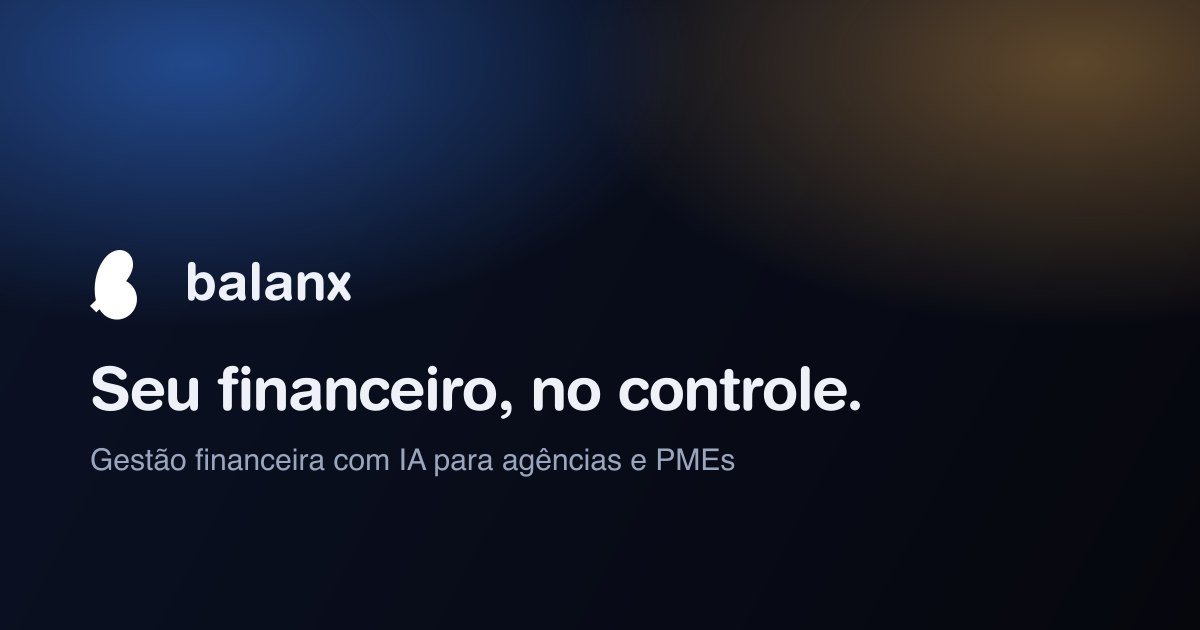
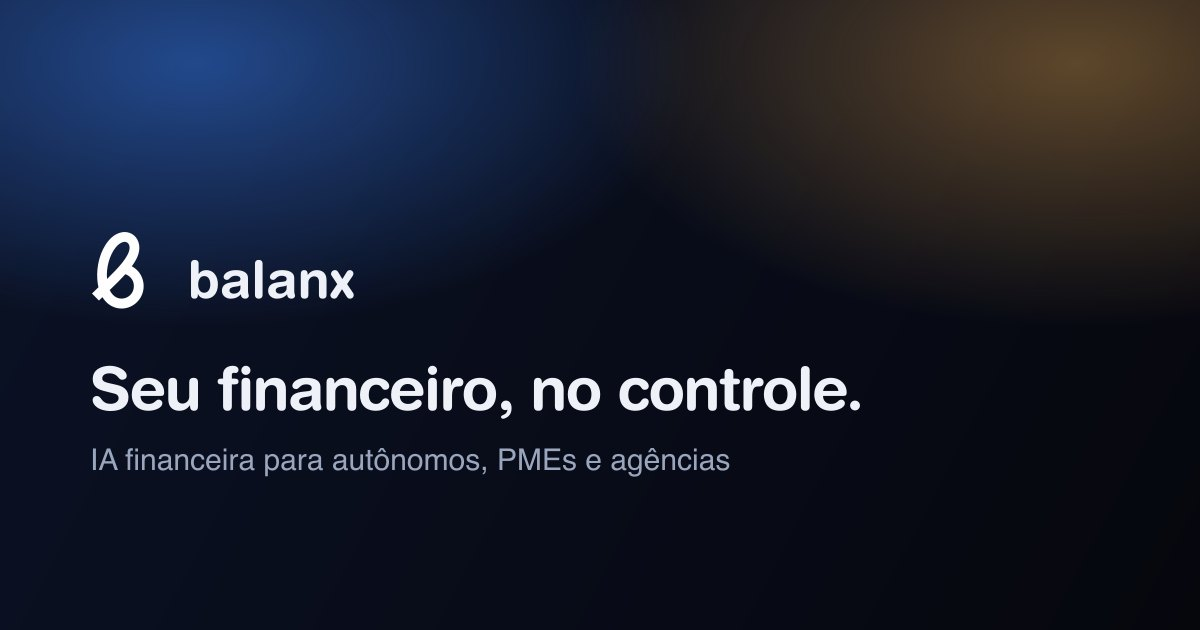
LP: (1) OG image com o 'b' correto (path completo + evenodd); (2) toggle de planos centralizado (remove hack left:50%); (3) balao da IARA de pre-venda — widget flutuante (texto + audio/Whisper) + edge function publica iara-lp (conhecimento do produto, gpt-4o-mini, rate-limit por IP + tabela lp_chat_

Changed region(s): [[0.0617, 0.6937, 0.6167, 0.754], [0.1542, 0.4222, 0.3083, 0.4825], [0.0617, 0.3619, 0.1233, 0.5127]]

diff --git a/supabase/functions/iara-lp/index.ts b/supabase/functions/iara-lp/index.ts
@@ -1,0 +1,104 @@
+import { serve } from "https://deno.land/std@0.168.0/http/server.ts";
+import { createClient } from "https://esm.sh/@supabase/supabase-js@2";
+
+// IARA da Landing Page (pré-venda, PÚBLICA — sem login). Responde dúvidas sobre
+// o BALANX com base no conhecimento do produto. Aceita texto e áudio (Whisper).
+// Rate-limit por IP pra conter abuso (endpoint público -> custo de IA).
+
+const corsHeaders = {
+  "Access-Control-Allow-Origin": "*",
+  "Access-Control-Allow-Headers": "authorization, x-client-info, apikey, content-type",
+};
+
+const LIMITE_DIA_IP = Number(Deno.env.get("IARA_LP_LIMITE_IP") || "40");
+
+const SYSTEM = `Você é a IARA, a assistente virtual do site do BALANX. Atende quem está conhecendo o produto (pré-venda), em português do Brasil, de forma curta, simpática e útil.
+
+SOBRE O BALANX:
+- Gestão financeira com IA para autônomos, PMEs e agências — feito para quem vive de projetos e mensalidades.
+- Recursos: fluxo de caixa e previsão; contratos e recebíveis recorrentes (MRR); cartões e faturas (compras parceladas caem na fatura certa pelo dia de fechamento); calendário com previsão de caixa por semana; lançar por voz; importar extratos por IA; relatórios, metas e categorias.
+- IARA (dentro do app): lê seus números reais e responde qualquer período em português ("o que tenho a pagar essa semana?", "quanto posso retirar de lucro?"). É conservadora e NÃO recomenda investimento de risco.
+- Preços: 14 dias grátis, sem precisar de cartão. Plano único: R$ 29,90/mês, ou no anual 12× de R$ 19,90 (economia de ~33%). Pagamento por Pix, boleto ou cartão. Cancele quando quiser.
+- Começar: criar conta em app.balanx.com.br/criar-conta. Roda no navegador (celular e computador) e pode ser adicionado à tela inicial. Cada conta enxerga só os próprios dados.
+
+REGRAS:
+- Responda SÓ sobre o BALANX. Se perguntarem algo fora disso, redirecione com gentileza.
+- NÃO invente recursos, preços ou números. Se não souber, sugira criar a conta (14 dias grátis) ou falar com o suporte.
+- Seja concisa (2 a 5 frases). Quando fizer sentido, convide a pessoa a começar o teste grátis.
+- Nunca peça senha, cartão ou dados sensíveis.`;
+
+serve(async (req) => {
+  if (req.method === "OPTIONS") return new Response(null, { headers: corsHeaders });
+
+  try {
+    const apiKey = Deno.env.get("OPENAI_API_KEY") || Deno.env.get("IARA_API_KEY");
+    if (!apiKey) {
+      return new Response(JSON.stringify({ error: "IA não configurada." }), { status: 500, headers: { ...corsHeaders, "Content-Type": "application/json" } });
+    }
+    const model = Deno.env.get("IARA_MODEL") || "gpt-4o-mini";
+    const openaiBase = "https://api.openai.com/v1";
+
+    // ---- Rate-limit por IP (best-effort, falha aberta) ----
+    const ip = (req.headers.get("x-forwarded-for") || "").split(",")[0].trim() || "desconhecido";
+    try {
+      const admin = createClient(Deno.env.get("SUPABASE_URL")!, Deno.env.get("SUPABASE_SERVICE_ROLE_KEY")!);
+      const hoje = new Date().toISOString().split("T")[0];
+      const { data: row } = await admin.from("lp_chat_uso").select("qtd").eq("ip", ip).eq("dia", hoje).maybeSingle();
+      const qtd = (row?.qtd ?? 0) + 1;
+      if (qtd > LIMITE_DIA_IP) {
+        return new Response(JSON.stringify({ error: "Muitas mensagens por hoje. Crie sua conta grátis em app.balanx.com.br para conversar com a IARA de verdade 🙂" }), { status: 429, headers: { ...corsHeaders, "Content-Type": "application/json" } });
+      }
+      await admin.from("lp_chat_uso").upsert({ ip, dia: hoje, qtd }, { onConflict: "ip,dia" });
+    } catch (_e) { /* fail open */ }
+
+    // ---- Entrada: JSON (texto) ou multipart (áudio) ----
+    let messages: { role: string; content: string }[] = [];
+    let transcript: string | null = null;
+    const ct = req.headers.get("content-type") || "";
+
+    if (ct.includes("multipart/form-data")) {
+      const form = await req.formData();
+      const raw = form.get("messages");
+      if (typeof raw === "string" && raw) { try { messages = JSON.parse(raw); } catch { /* ignore */ } }
+      const file = form.get("file");
+      if (file instanceof File) {
+        const oa = new FormData();
+        oa.append("file", file, file.name || "audio.webm");
+        oa.append("model", Deno.env.get("TRANSCRIBE_MODEL") || "whisper-1");
+        oa.append("language", "pt");
+        const tr = await fetch(`${openaiBase}/audio/transcriptions`, { method: "POST", headers: { Authorization: `Bearer ${apiKey}` }, body: oa });
+        if (tr.ok) { transcript = ((await tr.json()).text || "").trim(); }
+        if (transcript) messages.push({ role: "user", content: transcript });
+      }
+    } else {
+      const body = await req.json().catch(() => ({}));
+      messages = Array.isArray(body.messages) ? body.messages : [];
+    }
+
+    // Só as últimas 8 mensagens (contém custo/contexto) e cada uma limitada.
+    const clean = messages
+      .filter((m) => (m.role === "user" || m.role === "assistant") && typeof m.content === "string")
+      .slice(-8)
+      .map((m) => ({ role: m.role, content: String(m.content).slice(0, 1000) }));
+    if (!clean.length) {
+      return new Response(JSON.stringify({ error: "Envie uma mensagem." }), { status: 400, headers: { ...corsHeaders, "Content-Type": "application/json" } });
+    }
+
+    const resp = await fetch(`${openaiBase}/chat/completions`, {
+      method: "POST",
+      headers: { Authorization: `Bearer ${apiKey}`, "Content-Type": "application/json" },
+      body: JSON.stringify({ model, temperature: 0.4, max_tokens: 450, messages: [{ role: "system", content: SYSTEM }, ...clean] }),
+    });
+    if (!resp.ok) {
+      const t = await resp.text();
+      console.error("iara-lp AI error", resp.status, t);
+      return new Response(JSON.stringify({ error: "Não consegui responder agora. Tente de novo." }), { status: 500, headers: { ...corsHeaders, "Content-Type": "application/json" } });
+    }
+    const data = await resp.json();
+    const reply = (data.choices?.[0]?.message?.content || "").trim() || "Desculpe, não entendi. Pode reformular?";
+    return new Response(JSON.stringify({ reply, transcript }), { headers: { ...corsHeaders, "Content-Type": "application/json" } });
+  } catch (e) {
+    console.error("iara-lp error", e);
+    return new Response(JSON.stringify({ error: e instanceof Error ? e.message : "Erro" }), { status: 500, headers: { ...corsHeaders, "Content-Type": "application/json" } });
+  }
+});

diff --git a/landing/styles.css b/landing/styles.css
@@ -176,8 +176,8 @@ p{margin:0}
 .showcase__overlay p{color:var(--muted);max-width:26em;margin:14px 0 22px}
 
 /* ---------- PREÇOS ---------- */
-.toggle{display:inline-flex;gap:4px;padding:4px;border-radius:14px;background:var(--surface);
-  border:1px solid var(--border);margin:0 auto 26px;position:relative;left:50%;transform:translateX(-50%)}
+.toggle{display:flex;width:fit-content;gap:4px;padding:4px;border-radius:14px;background:var(--surface);
+  border:1px solid var(--border);margin:0 auto 26px}
 .toggle__opt{display:inline-flex;align-items:center;gap:7px;height:38px;padding:0 18px;border:0;border-radius:11px;
   background:transparent;color:var(--muted);font-weight:600;font-size:14px;cursor:pointer;transition:.2s}
 .toggle__opt.is-active{background:linear-gradient(180deg,#4c8dff,#2563eb);color:#fff}
@@ -249,3 +249,55 @@ p{margin:0}
   .footer{flex-direction:column;align-items:flex-start;gap:14px}
   .footer__legal{margin-left:0}
 }
+
+/* ===================== IARA — chat de pré-venda ===================== */
+.iara-fab{position:fixed;right:20px;bottom:20px;z-index:80;width:58px;height:58px;border:0;cursor:pointer;
+  border-radius:50%;display:grid;place-items:center;color:#fff;
+  background:linear-gradient(160deg,#4c8dff,#2563eb);
+  box-shadow:0 12px 30px -8px rgba(37,99,235,.7),inset 0 1px 0 rgba(255,255,255,.25);
+  transition:transform .18s ease}
+.iara-fab:hover{transform:scale(1.06)}
+.iara-fab:active{transform:scale(.95)}
+.iara-fab svg{width:26px;height:26px}
+.iara-fab__close{display:none}
+.iara-fab.open .iara-fab__spark{display:none}
+.iara-fab.open .iara-fab__close{display:block}
+
+.iara-panel{position:fixed;right:20px;bottom:88px;z-index:80;width:min(380px,calc(100vw - 32px));
+  height:min(560px,calc(100dvh - 120px));display:flex;flex-direction:column;overflow:hidden;
+  border-radius:22px;border:1px solid var(--border);background:rgba(12,16,28,.86);
+  backdrop-filter:blur(24px) saturate(1.4);
+  box-shadow:0 30px 70px -24px rgba(0,0,0,.85),inset 0 1px 0 rgba(255,255,255,.08);
+  transform-origin:bottom right;animation:iaraIn .22s cubic-bezier(.2,.8,.2,1)}
+@keyframes iaraIn{from{opacity:0;transform:translateY(12px) scale(.97)}to{opacity:1;transform:none}}
+.iara-panel__head{display:flex;align-items:center;gap:11px;padding:14px 14px;border-bottom:1px solid var(--border)}
+.iara-panel__ava{flex:none;width:34px;height:34px;border-radius:10px;display:grid;place-items:center;color:#fff;
+  background:linear-gradient(150deg,#4c8dff,#2563eb)}
+.iara-panel__ava svg{width:18px;height:18px}
+.iara-panel__id{flex:1;min-width:0}
+.iara-panel__name{font-size:14.5px;font-weight:700}
+.iara-panel__status{font-size:11px;color:var(--pos)}
+.iara-panel__x{flex:none;width:30px;height:30px;border:0;background:transparent;color:var(--muted);cursor:pointer;border-radius:8px}
+.iara-panel__x svg{width:18px;height:18px}
+.iara-panel__x:hover{background:rgba(255,255,255,.06);color:var(--fg)}
+.iara-panel__msgs{flex:1;overflow-y:auto;padding:16px 14px;display:flex;flex-direction:column;gap:10px}
+.iara-msg{max-width:86%;padding:10px 13px;font-size:13.5px;line-height:1.5;border-radius:15px;white-space:pre-wrap;word-wrap:break-word}
+.iara-msg--user{align-self:flex-end;background:linear-gradient(180deg,#4c8dff,#2563eb);color:#fff;border-radius:15px 15px 5px 15px}
+.iara-msg--bot{align-self:flex-start;background:rgba(255,255,255,.06);border:1px solid var(--border);border-radius:15px 15px 15px 5px}
+.iara-msg--typing{color:var(--muted);font-style:italic}
+.iara-panel__composer{display:flex;align-items:center;gap:8px;padding:10px 12px;border-top:1px solid var(--border)}
+.iara-panel__composer input{flex:1;min-width:0;height:40px;border-radius:12px;border:1px solid var(--border);
+  background:rgba(255,255,255,.05);color:var(--fg);padding:0 12px;font-size:14px;outline:none;font-family:inherit}
+.iara-panel__composer input:focus{border-color:rgba(76,141,255,.5)}
+.iara-mic,.iara-sendbtn{flex:none;width:40px;height:40px;border-radius:12px;border:1px solid var(--border);
+  background:rgba(255,255,255,.05);color:var(--muted);cursor:pointer;display:grid;place-items:center;transition:.15s}
+.iara-mic svg,.iara-sendbtn svg{width:18px;height:18px}
+.iara-mic:hover,.iara-sendbtn:hover{color:var(--fg);border-color:rgba(255,255,255,.24)}
+.iara-mic.rec{background:hsl(4 70% 42% / .18);border-color:var(--neg);color:var(--neg);animation:iaraPulse 1s infinite}
+@keyframes iaraPulse{50%{opacity:.5}}
+.iara-sendbtn{background:linear-gradient(180deg,#4c8dff,#2563eb);color:#fff;border-color:transparent}
+@media (max-width:680px){
+  .iara-panel{right:10px;left:10px;width:auto;bottom:82px;height:min(70dvh,540px)}
+  .iara-fab{right:14px;bottom:14px}
+}
+@media (prefers-reduced-motion:reduce){ .iara-panel{animation:none} .iara-mic.rec{animation:none} }

diff --git a/landing/main.js b/landing/main.js
@@ -85,3 +85,110 @@
   };
   opts.forEach((o) => o.addEventListener('click', () => setCycle(o.dataset.cycle)));
 })();
+
+/* ===================== IARA — chat de pré-venda ===================== */
+(() => {
+  'use strict';
+  const SB = 'https://hvwuuxvsoyovkvedifco.supabase.co';
+  const KEY = 'sb_publishable_UiXet8EwrEK9ZdSOExLncw_8GUgON7-';
+  const FN = `${SB}/functions/v1/iara-lp`;
+  const AUTH = { apikey: KEY, Authorization: `Bearer ${KEY}` };
+
+  const fab = document.getElementById('iaraFab');
+  const panel = document.getElementById('iaraPanel');
+  const closeBtn = document.getElementById('iaraClose');
+  const msgsEl = document.getElementById('iaraMsgs');
+  const form = document.getElementById('iaraForm');
+  const input = document.getElementById('iaraInput');
+  const mic = document.getElementById('iaraMic');
+  if (!fab || !panel) return;
+
+  const history = [];
+  let opened = false;
+  let busy = false;
+
+  const scroll = () => { msgsEl.scrollTop = msgsEl.scrollHeight; };
+  const addMsg = (role, text) => {
+    const el = document.createElement('div');
+    el.className = `iara-msg iara-msg--${role === 'user' ? 'user' : 'bot'}`;
+    el.textContent = text;
+    msgsEl.appendChild(el);
+    scroll();
+    return el;
+  };
+
+  const openPanel = () => {
+    panel.hidden = false;
+    fab.classList.add('open');
+    opened = true;
+    if (!msgsEl.childElementCount) {
+      addMsg('bot', 'Oi! Sou a IARA 👋 Posso te explicar o que o BALANX faz, preços, como começar… Pergunte por texto ou toque no microfone.');
+    }
+    setTimeout(() => input.focus(), 100);
+  };
+  const closePanel = () => { panel.hidden = true; fab.classList.remove('open'); opened = false; };
+  fab.addEventListener('click', () => (opened ? closePanel() : openPanel()));
+  closeBtn.addEventListener('click', closePanel);
+
+  const ask = async ({ text, blob }) => {
+    if (busy) return;
+    busy = true;
+    if (text) { addMsg('user', text); history.push({ role: 'user', content: text }); }
+    const typing = addMsg('bot', 'digitando…');
+    typing.classList.add('iara-msg--typing');
+    try {
+      let resp;
+      if (blob) {
+        const fd = new FormData();
+        fd.append('file', blob, 'audio.webm');
+        fd.append('messages', JSON.stringify(history));
+        resp = await fetch(FN, { method: 'POST', headers: AUTH, body: fd });
+      } else {
+        resp = await fetch(FN, { method: 'POST', headers: { ...AUTH, 'Content-Type': 'application/json' }, body: JSON.stringify({ messages: history }) });
+      }
+      const data = await resp.json();
+      if (blob && data.transcript) { typing.remove(); addMsg('user', data.transcript); history.push({ role: 'user', content: data.transcript }); }
+      if (!resp.ok) throw new Error(data.error || 'Erro');
+      typing.remove();
+      addMsg('bot', data.reply);
+      history.push({ role: 'assistant', content: data.reply });
+    } catch (e) {
+      typing.remove();
+      addMsg('bot', e && e.message ? e.message : 'Ops, não consegui responder agora. Tente de novo em instantes.');
+    } finally {
+      busy = false;
+    }
+  };
+
+  form.addEventListener('submit', (e) => {
+    e.preventDefault();
+    const t = input.value.trim();
+    if (!t) return;
+    input.value = '';
+    ask({ text: t });
+  });
+
+  // ---- Áudio (MediaRecorder) ----
+  let rec = null, chunks = [];
+  const stopRec = () => { try { rec && rec.stop(); } catch (_) {} };
+  mic.addEventListener('click', async () => {
+    if (rec && rec.state === 'recording') { stopRec(); return; }
+    if (!navigator.mediaDevices?.getUserMedia || typeof MediaRecorder === 'undefined') {
+      addMsg('bot', 'Seu navegador não permite gravar áudio aqui — pode escrever sua pergunta 🙂'); return;
+    }
+    let stream;
+    try { stream = await navigator.mediaDevices.getUserMedia({ audio: true }); }
+    catch (_) { addMsg('bot', 'Preciso da permissão do microfone pra ouvir você. Você também pode escrever.'); return; }
+    rec = new MediaRecorder(stream);
+    chunks = [];
+    rec.ondataavailable = (ev) => { if (ev.data && ev.data.size) chunks.push(ev.data); };
+    rec.onstop = () => {
+      stream.getTracks().forEach((t) => t.stop());
+      mic.classList.remove('rec');
+      const blob = new Blob(chunks, { type: rec.mimeType || 'audio/webm' });
+      if (blob.size > 0) ask({ blob });
+    };
+    rec.start();
+    mic.classList.add('rec');
+  });
+})();

diff --git a/landing/index.html b/landing/index.html
@@ -293,6 +293,35 @@
     <p class="footer__legal">© <span id="year">2026</span> BALANX · Gestão financeira. Todos os direitos reservados.</p>
   </footer>
 
+  <!-- ===== IARA — chat de pré-venda ===== -->
+  <button id="iaraFab" class="iara-fab" aria-label="Falar com a IARA" title="Tire dúvidas com a IARA">
+    <svg class="iara-fab__spark" viewBox="0 0 24 24" aria-hidden="true"><path d="M12 3l1.9 5.1L19 10l-5.1 1.9L12 17l-1.9-5.1L5 10l5.1-1.9L12 3z" fill="currentColor"/></svg>
+    <svg class="iara-fab__close" viewBox="0 0 24 24" aria-hidden="true"><path d="M6 6l12 12M18 6L6 18" stroke="currentColor" stroke-width="2.2" stroke-linecap="round"/></svg>
+  </button>
+
+  <div id="iaraPanel" class="iara-panel" hidden aria-live="polite">
+    <div class="iara-panel__head">
+      <span class="iara-panel__ava"><svg viewBox="0 0 24 24"><path d="M12 3l1.9 5.1L19 10l-5.1 1.9L12 17l-1.9-5.1L5 10l5.1-1.9L12 3z" fill="currentColor"/></svg></span>
+      <div class="iara-panel__id">
+        <div class="iara-panel__name">IARA</div>
+        <div class="iara-panel__status">tira suas dúvidas sobre o BALANX</div>
+      </div>
+      <button id="iaraClose" class="iara-panel__x" aria-label="Fechar">
+        <svg viewBox="0 0 24 24"><path d="M6 6l12 12M18 6L6 18" stroke="currentColor" stroke-width="2.2" stroke-linecap="round"/></svg>
+      </button>
+    </div>
+    <div id="iaraMsgs" class="iara-panel__msgs"></div>
+    <form id="iaraForm" class="iara-panel__composer" autocomplete="off">
+      <input id="iaraInput" type="text" placeholder="Pergunte sobre o BALANX…" aria-label="Sua mensagem" />
+      <button type="button" id="iaraMic" class="iara-mic" aria-label="Falar por áudio">
+        <svg viewBox="0 0 24 24" fill="none" stroke="currentColor" stroke-width="2" stroke-linecap="round" stroke-linejoin="round"><rect x="9" y="2" width="6" height="12" rx="3"/><path d="M5 10a7 7 0 0 0 14 0M12 19v3"/></svg>
+      </button>
+      <button type="submit" class="iara-sendbtn" aria-label="Enviar">
+        <svg viewBox="0 0 24 24" fill="none" stroke="currentColor" stroke-width="2" stroke-linecap="round" stroke-linejoin="round"><path d="M22 2 11 13M22 2l-7 20-4-9-9-4 20-7z"/></svg>
+      </button>
+    </form>
+  </div>
+
   <script src="/main.js" defer></script>
 </body>
 </html>
